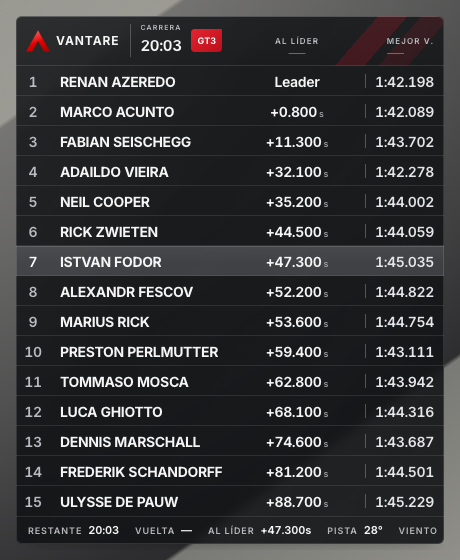
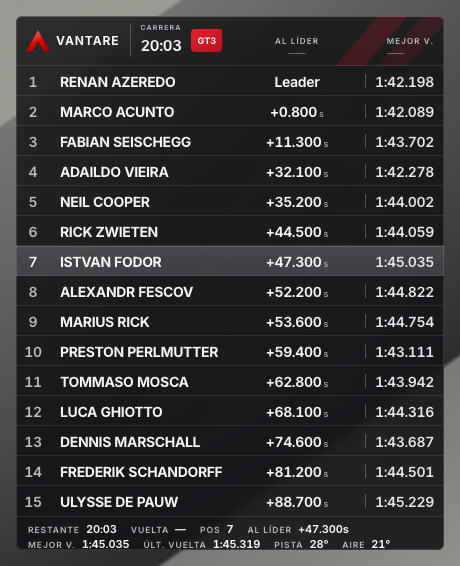
fix(functional): footer slots adaptables — wrap + fuente por ancho (ISA-1128)
La fila unica recortaba el exceso por la derecha. Ahora los huecos doblan
a una segunda fila cuando no caben y su letra escala con el ancho del
widget (container query + clamp). La seccion pasa a flex-column a altura
completa: el pie siempre es visible y la tabla cede el espacio.

Generated with [Devin](https://devin.ai)

diff --git a/vantare-v2/frontend/src/overlay/design-systems/vantare-functional/tokens.css b/vantare-v2/frontend/src/overlay/design-systems/vantare-functional/tokens.css
@@ -74,8 +74,15 @@
    divisores entre celdas. Cada par comparte la tipografía de
    .vf-footer-item (etiqueta uppercase pequeña + valor en negrita en la
    misma línea); solo queda la línea superior sobre toda la fila. */
-.vf-slots { position: relative; z-index: 1; display: flex; align-items: baseline; gap: 7px 16px; padding: 8px 12px; border-top: 1px solid var(--vf-line); overflow: hidden; white-space: nowrap; }
-.vf-slots .vf-slot { flex-shrink: 0; }
+/* Huecos de datos: una fila que puede doblar a dos; el tamaño de letra
+   escala con el ancho del widget (container query) para que quepan más. */
+.vf-standings, .vf-relative { container-type: inline-size; }
+.vf-standings, .vf-relative { display: flex; flex-direction: column; height: 100%; }
+.vf-standings .vf-table, .vf-relative .vf-table { flex: 1 1 auto; min-height: 0; overflow: hidden; }
+.vf-slots { position: relative; z-index: 1; flex: 0 0 auto; display: flex; flex-wrap: wrap; align-items: baseline; gap: 4px 14px; padding: 7px 12px 8px; border-top: 1px solid var(--vf-line); }
+.vf-slots .vf-slot { flex: 0 1 auto; min-width: 0; }
+.vf-slots .vf-slot .vf-slot-label { font-size: clamp(7px, 2cqi, 9px); }
+.vf-slots .vf-slot .vf-slot-value { font-size: clamp(9px, 2.9cqi, 11px); }
 .vf-slot, .vf-footer-item { display: flex; align-items: baseline; gap: 6px; font: 600 9px/1 Inter, Arial, sans-serif; letter-spacing: .1em; text-transform: uppercase; color: var(--vf-muted); }
 .vf-slot-label { white-space: nowrap; }
 .vf-slot-value, .vf-footer-item b { font: 650 11px/1 Inter, Arial, sans-serif; letter-spacing: -.01em; text-transform: none; font-variant-numeric: tabular-nums; color: var(--vf-ink); }
